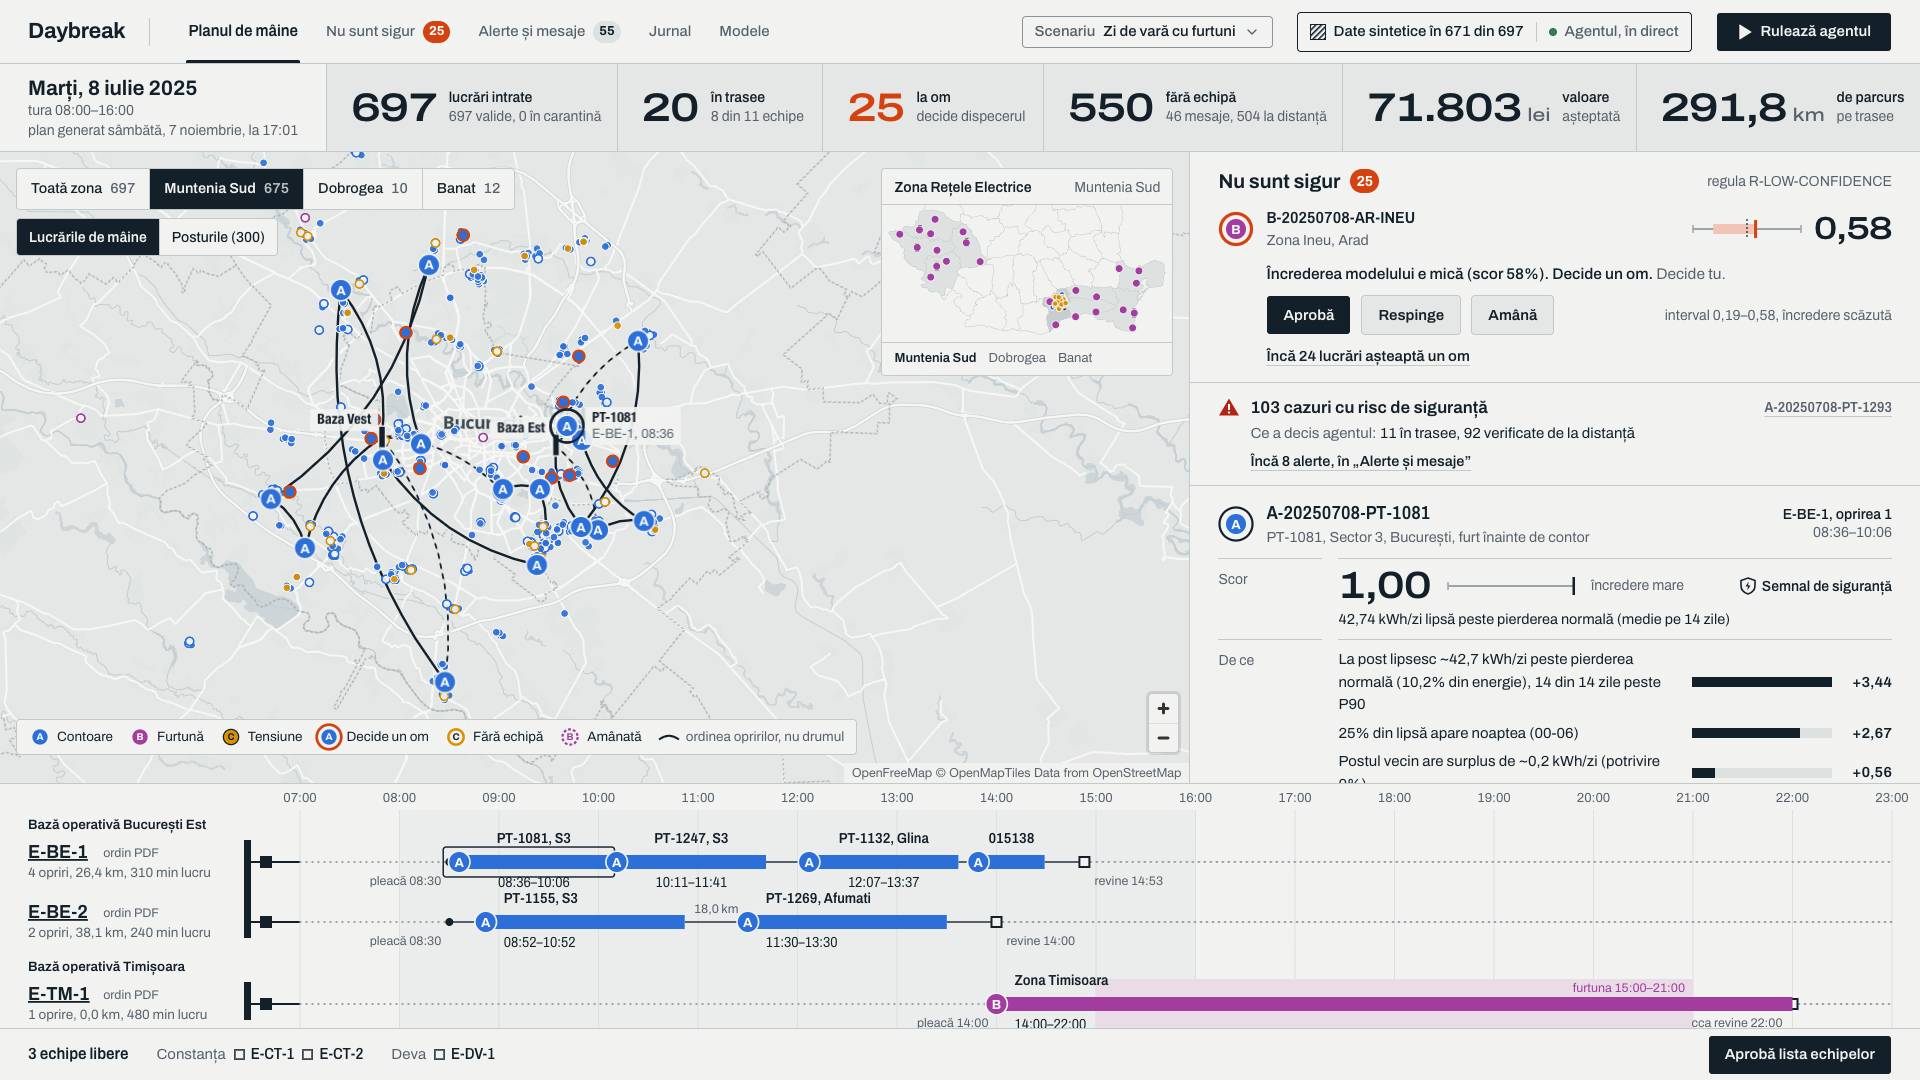
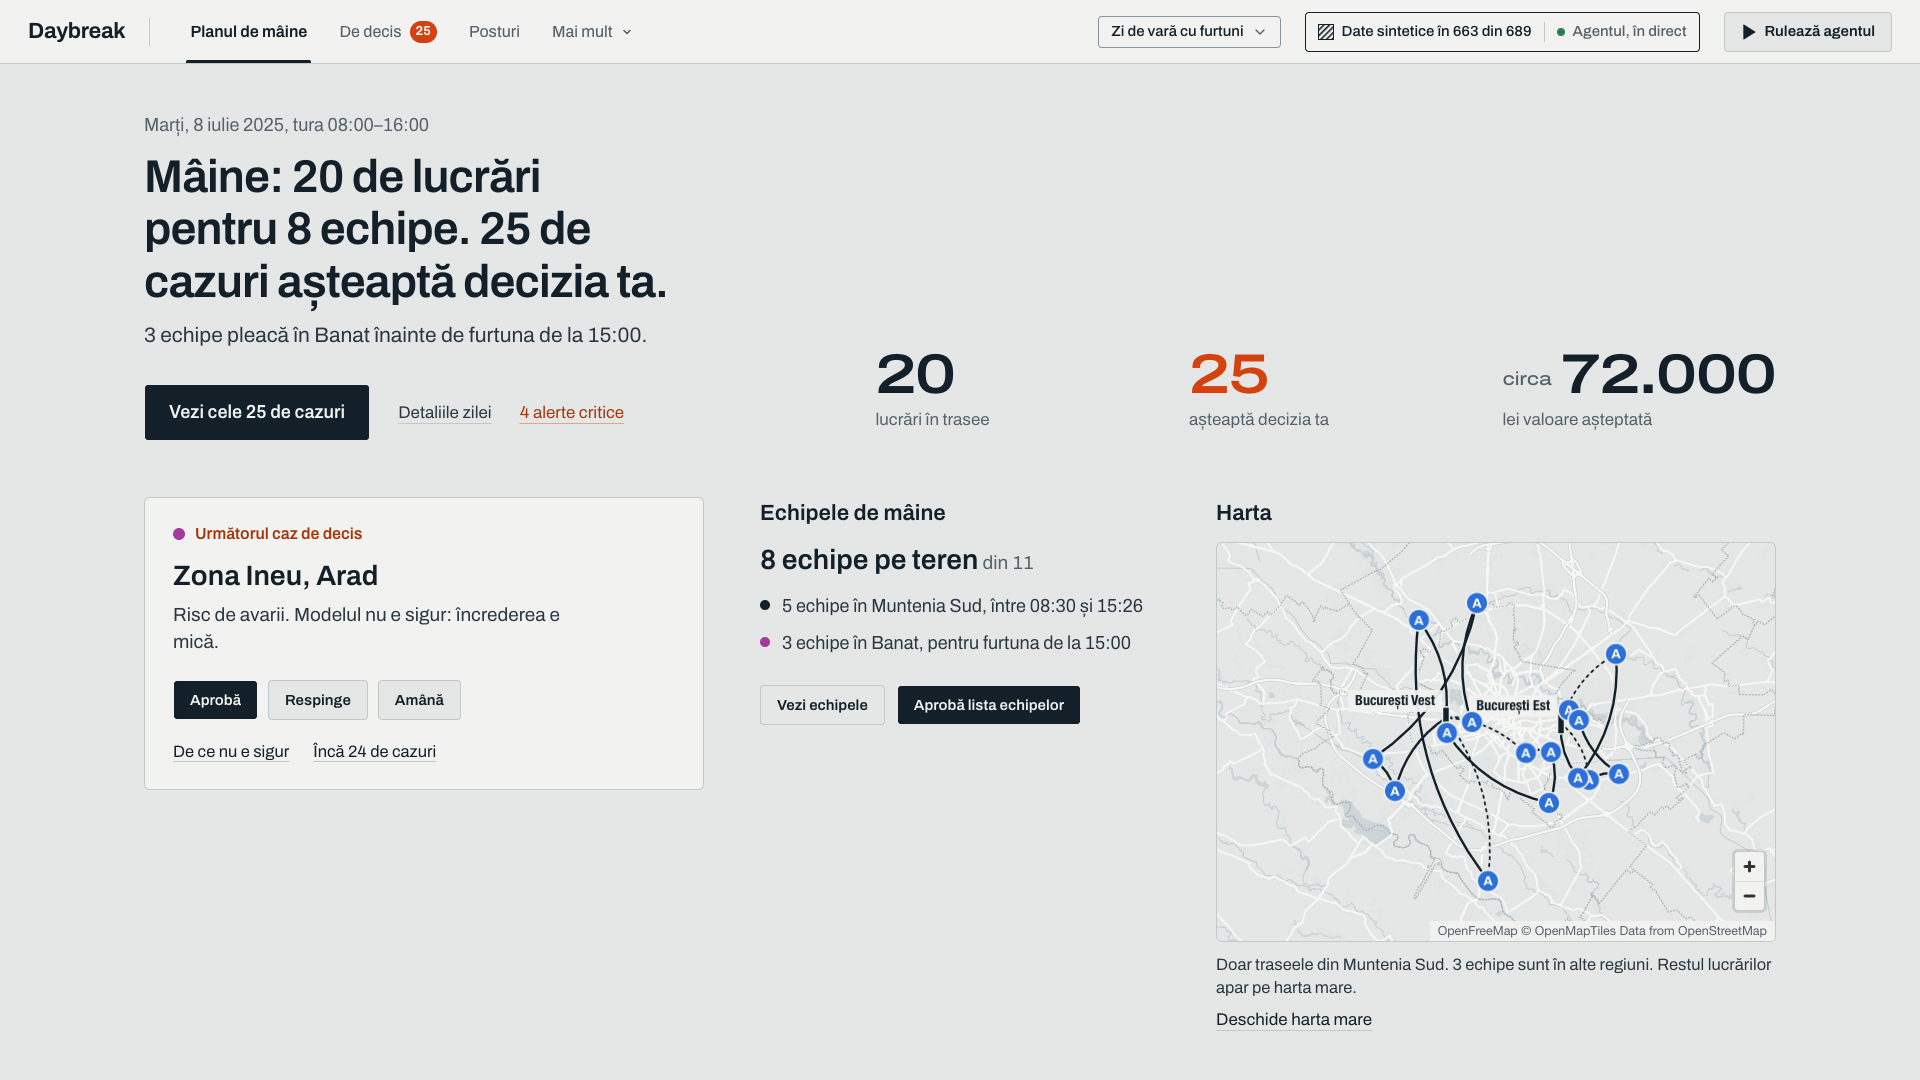
Interfață: capturile noi pentru slideuri, după simplificare (15, la 1920×1080)

diff --git a/web/design/captures/README.md b/web/design/captures/README.md
@@ -1,18 +1,21 @@
 # Capturi pentru slideuri
 
-Consola Daybreak la 1920×1080, pe planul real servit de API (`PLAN-demo-vara-20250708-170128-31d6`, generat pe 7 noiembrie 2026, la 17:01), scenariul „Zi de vară cu furtuni” (8 iulie 2025). Datele sunt sintetice, iar antetul fiecărei capturi o spune („Date sintetice în … din …”).
+Consola Daybreak după trecerea de simplificare (Varianta 1, aleasă de Teo), la 1920×1080, pe planul real servit de API (`PLAN-demo-vara-20250708-182006-043b`, generat pe 7 noiembrie 2026, la 18:20), scenariul „Zi de vară cu furtuni” (8 iulie 2025). Datele sunt sintetice, iar antetul fiecărei capturi o spune.
 
 | Fișier | Ce arată |
 |---|---|
-| `01-planul-de-maine.png` | Planul de mâine: cifrele zilei, harta cu traseele, coada „Nu sunt sigur”, alerta principală cu ce a decis agentul, linia de timp a echipelor |
-| `02-nu-sunt-sigur.png` | Lucrările pe care agentul le trimite la om, cu motivul și butoanele Aprobă, Respinge, Amână |
-| `03-harta-posturilor.png` | Posturile de transformare, verde, galben, roșu după lei pierduți pe lună (pragurile din `config/planner.yaml`) |
-| `04-lucrare-tensiune-C.png` | O lucrare C: tensiunea oră cu oră (P10–P90) față de limita de 1,10 pu și decizia agentului cu scara de soluții |
-| `05-lucrare-contor-A.png` | O lucrare A: consumul zilnic față de normal, factorii modelului, decizia cu regula și pragurile în cuvinte |
-| `06-jurnalul-deciziilor.png` | Jurnalul: fiecare decizie legată de predicție, versiunea modelului, regulă și praguri |
-| `07-modelele.png` | Modelele A, B, C față de baseline, cu cifrele din rapoarte |
-| `08-demo-scena-1.png` … `08-demo-scena-5.png` | Modul de prezentare `/demo`, tema închisă, cele cinci scene (scena 4: echipa E-RS-1 ajunge la Oravița la 14:00, înaintea furtunii de la 15:00) |
+| `01-planul-de-maine.png` | Primul ecran: fraza zilei, o singură acțiune, trei cifre, următorul caz de decis, echipele pe scurt, harta mică doar cu traseele |
+| `02-echipele-de-maine.png` | Fereastra „Echipele de mâine”: lista echipelor, cu plecarea și întoarcerea |
+| `03-detaliile-zilei.png` | Panoul „Detaliile zilei”: toate cifrele planului și alertele, la cerere |
+| `04-de-decis.png` | Cazurile pe care agentul nu le poate decide singur: o frază, trei butoane, detaliile tehnice închise |
+| `05-postul-PT-1269.png` | Pagina unui post: verdictul într-o frază, apoi graficul bilanțului (ieșit din post față de suma clienților) |
+| `06-lucrare-tensiune-C.png` | O lucrare C: verdictul, combinația aleasă, tensiunea oră cu oră |
+| `07-lucrare-contor-A.png` | O lucrare A: verdictul, consumul zilnic față de normal |
+| `08-harta-mare.png` | Harta mare cu linia de timp a echipelor (`/harta`), pentru cine vrea toate detaliile |
+| `09-jurnalul-deciziilor.png` | Jurnalul: fiecare decizie legată de predicție, model, regulă și praguri |
+| `10-modelele.png` | Modelele A, B, C față de baseline |
+| `11-demo-scena-1.png` … `11-demo-scena-5.png` | Prezentarea `/demo`, tema închisă, cele cinci scene, cu subtitrarea pe banda ei |
 
-Lipsește încă pagina unui post cu graficul bilanțului: seriile bilanțului nu sunt publicate în API și nici în instantaneu (cererea e în `status/Teo-ui.md`). Captura se face când apar.
+Graficul bilanțului din `05` folosește seriile firului de bilanț din `outputs/series/demo-vara/` (ieșirea modelului, în afara git); în API și în instantaneu nu sunt încă publicate (cererea e în `status/Teo-ui.md`).
 
-Cum se refac: `make api` și `make web-demo` (sau `make web`), apoi capturi la 1920×1080 ale adreselor `/`, `/coada`, `/?harta=posturi`, `/lucrari/C-20250708-PT-1269`, `/lucrari/A-20250708-MTR-011050`, `/jurnal`, `/modele`, `/demo?scena=1` … `5`.
+Cum se refac: `make api` și `make web-demo` (sau `make web`), apoi capturi la 1920×1080 ale adreselor `/` (plus fereastra „Vezi echipele” și panoul „Detaliile zilei”), `/coada`, `/posturi/PT-1269`, `/lucrari/C-20250708-PT-1269`, `/lucrari/A-20250708-MTR-011050`, `/harta`, `/jurnal`, `/modele`, `/demo?scena=1` … `5`.
